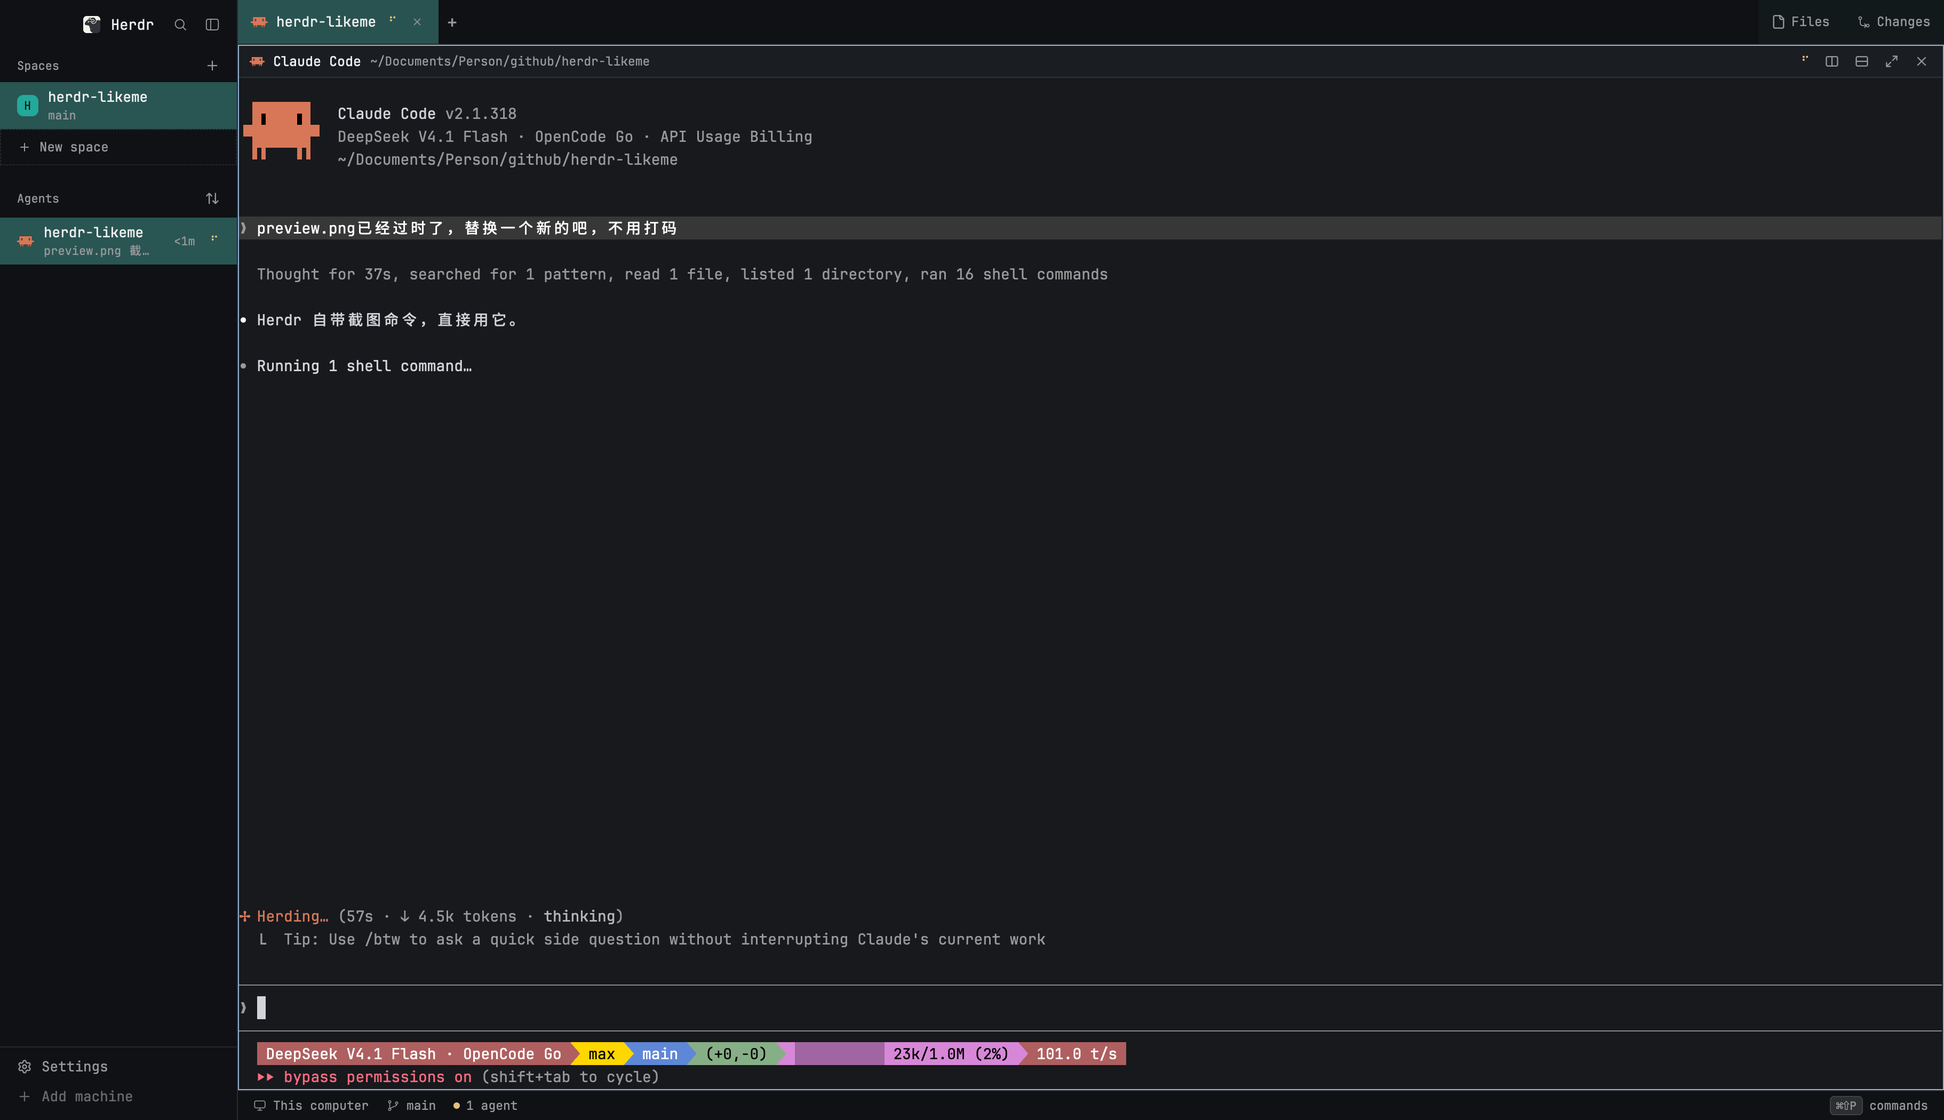
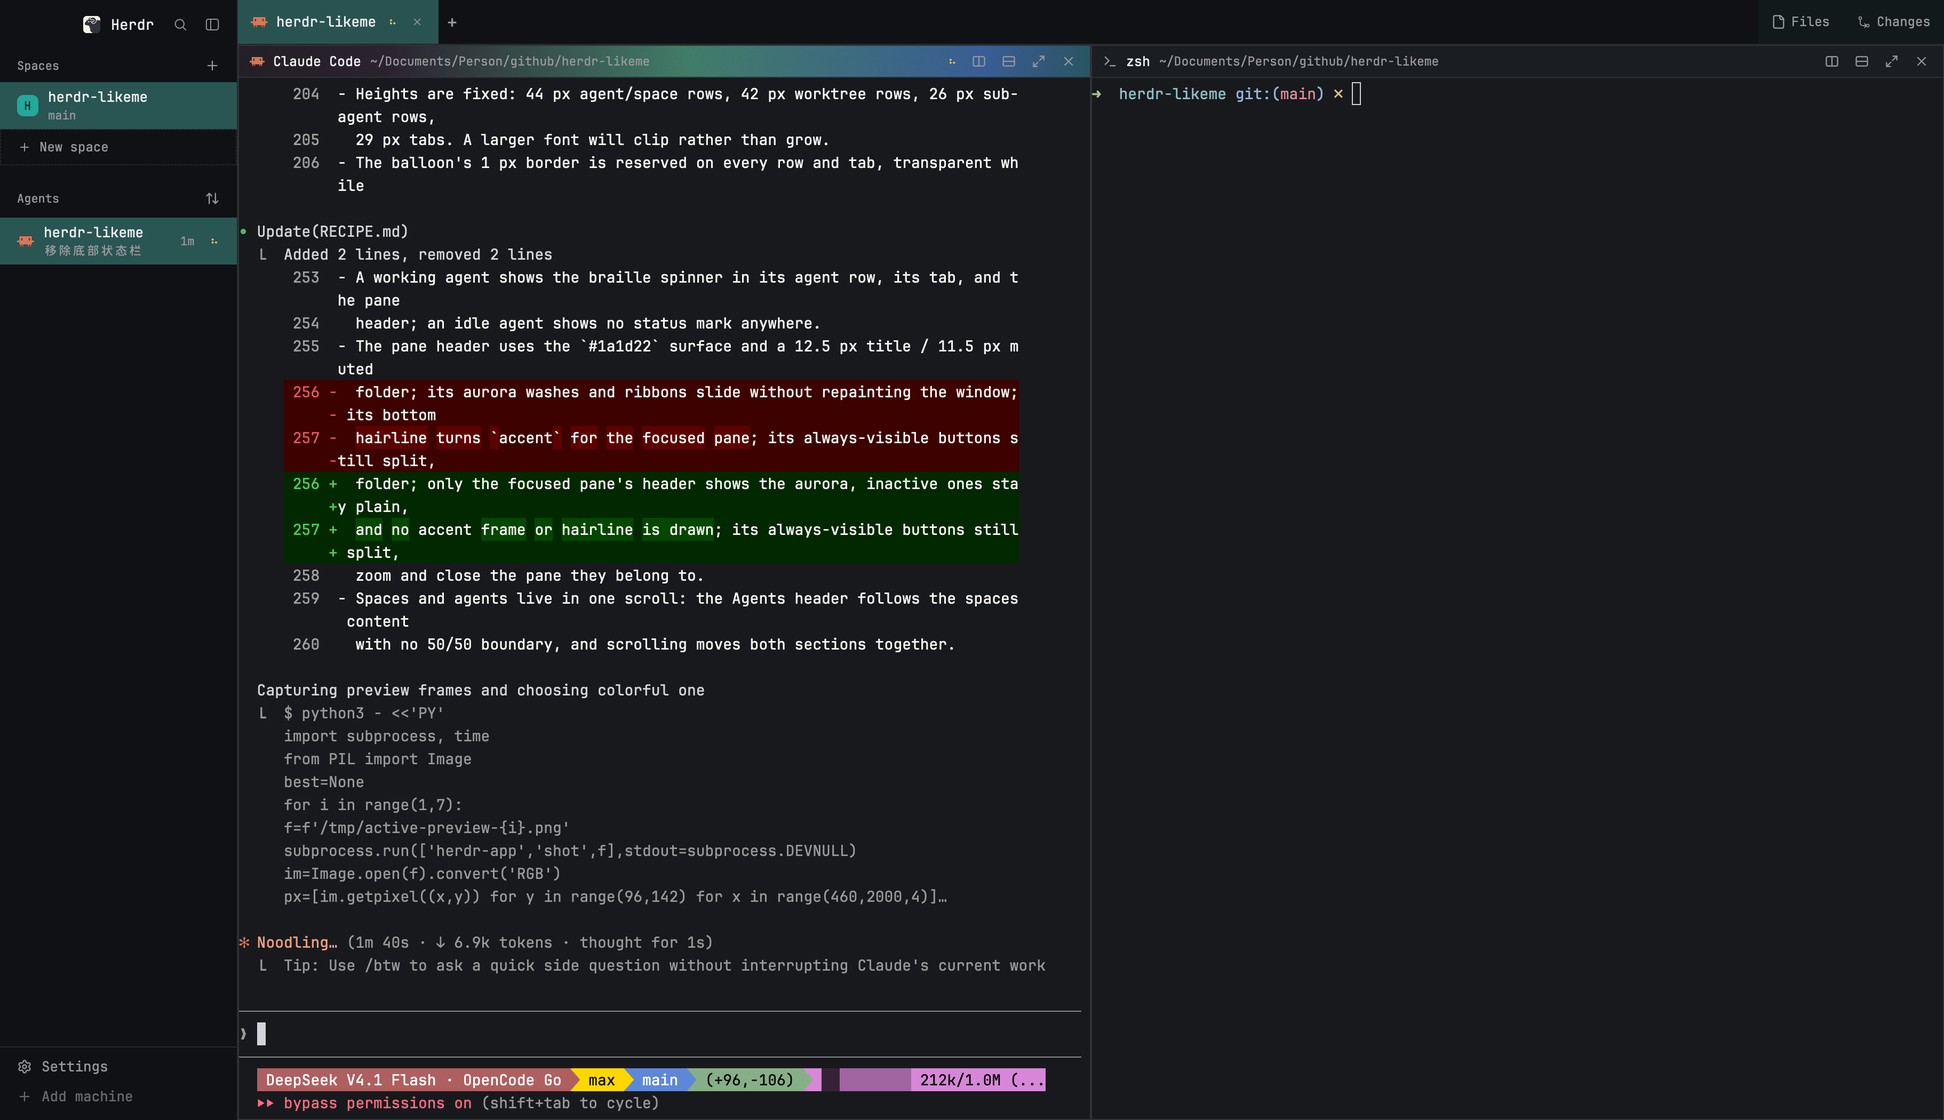
Remove the status bar and add a focused-pane aurora
Drop the my-status mod and its 28 px block. The focused pane is now
marked by an iridescent aurora in its header instead of an accent frame,
so the square pane no longer draws a bright corner into the macOS
rounded window; inactive headers stay plain.

diff --git a/mods/my-pane/main.js b/mods/my-pane/main.js
@@ -3,10 +3,55 @@
 // Shows the program's icon (the app's program table), the agent's name or
 // the terminal's title, the folder, and the agent's status; buttons split, zoom and close
 // this pane. Props from the app: { pane, terminal }. Click: focus the pane.
+// The header background carries an iridescent, left-to-right aurora.
 
-import { View, div, svg, image } from "gpui-kit";
+import { View, div, svg, image, PathBuilder, Background } from "gpui-kit";
 import { h_flex } from "gpui-base";
 import { panes, props, run, theme, home } from "herdr";
+
+const RECT = () => PathBuilder.fill()
+  .move_to("0%", "0%").line_to("100%", "0%")
+  .line_to("100%", "100%").line_to("0%", "100%")
+  .close().build();
+
+// A left-to-right wash across the element it fills.
+const wash = (from, to) =>
+  window.paint_path(RECT(), Background.linear_gradient(90, from, to)).size_full();
+
+// One soft colour ribbon: transparent → colour A → colour B → transparent.
+// The whole ribbon slides across the header, so each colour fades in at the
+// left and out at the right instead of appearing as a hard block.
+const ribbon = (pane, key, width, from, to, period, a, b, alpha = "66") => {
+  const A = `${a}${alpha}`, B = `${b}${alpha}`;
+  return h_flex()
+    .id(`pane-aurora-${pane}-${key}`)
+    .absolute()
+    .top(0)
+    .h_full()
+    .w(width * 3)
+    .left(from)
+    .loop("left", { from, to, period, easing: "linear" })
+    .child(wash(`${a}00`, A).w(width).h_full())
+    .child(wash(A, B).w(width).h_full())
+    .child(wash(B, `${b}00`).w(width).h_full());
+};
+
+// Only the focused pane gets the aurora; inactive headers stay plain, and the
+// aurora itself is the focus mark (no accent frame or hairline).
+const aurora = (pane) => div()
+  .id(`pane-aurora-${pane}`)
+  .absolute()
+  .top(0)
+  .left(0)
+  .size_full()
+  // The wash itself fades in from the left, so the header enters as a soft
+  // colour instead of switching on; the moving ribbons carry it onward.
+  .child(wash("#ff4d9d0a", "#4de1ff4a"))
+  .child(wash("#7c5cff00", "#ffb84d42"))
+  .child(ribbon(pane, "rose", 320, -960, 3000, 14000, "#ff4d9d", "#ffb84d", "6b"))
+  .child(ribbon(pane, "ice", 380, -1140, 3200, 16000, "#4de1ff", "#7c5cff", "63"))
+  .child(ribbon(pane, "mint", 280, -840, 2800, 11000, "#5cffb0", "#4d7dff", "5c"))
+  .child(ribbon(pane, "sheen", 90, -270, 3000, 7000, "#ffffff", "#ffffff", "26"));
 
 function icon(p, size, color) {
   if (!p?.icon) return null;
@@ -53,10 +98,12 @@ export default class Pane extends View {
       .gap(8)
       .items_center()
       .bg("#1a1d22")
+      .overflow_hidden()
       .border_b(1)
       .border_color(t.border)
       .text_size(12)
       .on_click(() => run("pane.focus", { pane }))
+      .when(p.focused, (el) => el.child(aurora(pane)))
       .when(Boolean(pic), (el) => el.child(pic))
       .child(div().flex_none().truncate().max_w(260).text_size(12.5).font_medium().text_color(t.foreground).child(name))
       .child(div().flex_1().truncate().text_size(11.5).text_color(t.muted).child(folder(p.cwd)))

diff --git a/RECIPE.md b/RECIPE.md
@@ -12,7 +12,7 @@ the balloon selection, the tab close buttons and the spinner are the real UI._
 
 ## What you see
 
-The window is Herdr's `main` layout with four mods replaced. No system title bar
+The window is Herdr's `main` layout with five mods replaced. No system title bar
 (`"titlebar": "none"`); on macOS the traffic lights sit at `[12, 16]`. Background is
 the theme's `canvas`, with 1 px `border` dividers.
 
@@ -76,18 +76,17 @@ tabs share a folder (then the number is appended if the programs also collide). 
 `+` sits right after the last tab, inside the scrolling strip.
 
 **Panes.** Square, edge-to-edge cards: no gap, padding or terminal padding, 1 px
-`border`, `accent` border while focused, and a slightly lifted `#1a1d22` surface (the
+`border`, no pane-level focus border, and a slightly lifted `#1a1d22` surface (the
 terminal itself keeps its own background). 30 px header from the cloned `my-pane` mod
-(`reveal: always`), painted on the same `#1a1d22` surface, with a 1 px bottom hairline. The title is 12.5 px
+(`reveal: always`), painted on the same `#1a1d22` surface. Only the focused pane's
+header carries the aurora: two static left-to-right washes and four translucent colour
+ribbons sliding across at different speeds. The washes start transparent at the left
+edge, so the colour appears gradually, and the ribbons start offscreen to the left and
+fade out at their trailing edge. Inactive headers stay plain; the aurora itself is the
+focus mark, and the header's bottom hairline stays `border`. The title is 12.5 px
 `medium`, the folder 11.5 px `muted`, and the working state is the same gold braille
 character as the tabs and agents. The Files/Changes panel (368 px, hidden by default)
-is Herdr's `files`/`changes` stack. A 28 px `my-status` bar sits at the bottom.
-
-**Status bar.** 11.5 px `muted`: the machine (server/monitor icon), the space's branch,
-and the agent count with a 6 px dot colored by the most urgent agent. The count is
-singular when it is one ("1 agent"); a blocked count adds "· N needs you" in `blocked`.
-The palette chord on the right is a small keycap (`raised`, 1 px `border`, 18 px high)
-followed by "commands".
+is Herdr's `files`/`changes` stack.
 
 ## How it behaves
 
@@ -109,14 +108,13 @@ followed by "commands".
   opens the tab menu, the wheel switches tabs, every close button closes its own tab.
   A tab still named by its number is shown by what it runs, so "1" becomes the folder
   or program name; renaming a tab always wins. The `+` opens Herdr's `new-menu` popup.
-- **Pane header.** Click focuses the pane. The split-right, split-down, zoom/unzoom and
+- **Pane header.** Click focuses the pane. Only the focused pane's header shows the
+  aurora; inactive headers stay plain, and there is no accent frame or hairline to run
+  square into the window's rounded bottom-right. The split-right, split-down, zoom/unzoom and
   close buttons are always visible, and the status indicator keeps its place when there
   is one (working spinner, "Needs you", done dot); an idle agent shows nothing. Each
   button acts on its own pane (`props().pane`), not the focused one. Working shows the
   same braille character as the tabs and agents.
-- **Status bar.** The dot is the most urgent agent state (blocked > done > working >
-  idle > dim), the count is singular or plural, and the keycap chord opens the
-  palette (`app.palette`).
 - Everything else (Files/Changes, palette, dialogs and notifications) is unchanged
   from `main`.
 
@@ -136,10 +134,9 @@ root row (canvas, titlebar none, traffic_lights [12,16], terminal_padding [0,0],
    ├─ tabs block (42px, mod my-tabs, window_drag)
    ├─ work-body row (padding 0, gap 0)
    │  ├─ main block {tab: active, pane: {gap 0, radius 0, background #1a1d22, border 1/border,
-   │  │              focus 1/accent, lone true, header {mod my-pane, height 30, reveal always}}}
+   │  │              lone true, header {mod my-pane, height 30, reveal always}}}
    │  └─ panel column (368px, min 280, max 900, hidden) → panel-body stack
    │     {active files} → files block, changes block
-   └─ status block (28px, my-status)
 ```
 
 **Mods.**
@@ -148,8 +145,7 @@ root row (canvas, titlebar none, traffic_lights [12,16], terminal_padding [0,0],
 |---|---|
 | `my-sidebar` | One mod, two retained child views (`spaces.js` and `agents.js`) composed in a single scrolling column (`main.js`); `colors.js` holds the shared `MARK` table, `markColor()` and the `mix()` used for the balloon pills. It keeps the spaces logic (git lookup via `exec`, `hc machine ls`, `watchFolder`, drag-reorder) and the agents logic (live agent data, pins, groups, sub-agent trees) unchanged. Changed: the two sections share one scroll (no 50/50 split), the Agents header follows the spaces content without a top border, the worktree rows draw a real 1 px tree line, rows have spacing and balloon selection, and both retain the row/type/active-state changes from the earlier passes. The sort popup mounts a second copy of this mod (`props.sortMenu`) and returns only the agents view. |
 | `my-tabs` | The tab bar. Clone of the shipped `tabs`. Changed: 10 px radius, `px 12`/`gap 8`, 16 px icons, distinct labels for default-numbered tabs, `+` after the last tab, close button fades to 0.4 when inactive, balloon active tab in the space's colour, zoom glyph, spinner `frames([...], 80)`. |
-| `my-pane` | The pane header. Clone of the shipped `pane`. Changed: header surface `#1a1d22`, 12.5 px title / 11.5 px `muted` folder, braille working spinner instead of the rotating SVG, always-visible `muted` buttons; keeps the 1 px bottom hairline and the split/zoom/close buttons. |
-| `my-status` | The status bar. Clone of the shipped `workspace-status`. Changed: 11.5 px text, singular/plural agent count, 6 px dot colored by the most urgent agent, palette chord in an 18 px keycap. |
+| `my-pane` | The pane header. Clone of the shipped `pane`. Changed: header surface `#1a1d22`, 12.5 px title / 11.5 px `muted` folder, an iridescent aurora on the focused pane's header only (static washes plus four native `loop` ribbons), braille working spinner instead of the rotating SVG, always-visible `muted` buttons; no pane-level focus border and no accent hairline — the aurora is the focus mark — and it keeps the split/zoom/close buttons. |
 
 Herdr functions used: `spaces`, `agents`, `terminals`, `panes`, `focused`, `layout`,
 `theme`, `window`, `settings`, `keys`, `home`, `shared` / `setShared`, `setAgentOrder`,
@@ -173,11 +169,10 @@ carries its own `sort.svg`; `my-pane` carries its own `close/split/zoom` SVGs;
 ## Watch out
 
 - **Clones never update.** Herdr replaces its shipped
-  `spaces`/`agents`/`tabs`/`pane`/`workspace-status` on every start; these five sources
+  `spaces`/`agents`/`tabs`/`pane` on every start; these four sources
   are frozen at 0.1.12. After a Herdr upgrade, diff each shipped `main.js` against its
   copy and port whatever changed (`spaces`→`my-sidebar/spaces.js`,
-  `agents`→`my-sidebar/agents.js`, `tabs`→`my-tabs`, `pane`→`my-pane`,
-  `workspace-status`→`my-status`).
+  `agents`→`my-sidebar/agents.js`, `tabs`→`my-tabs`, `pane`→`my-pane`).
 - `my-sidebar` is a composition, not a clone: `main.js` mounts two retained child
   views with `cx.new(..., { embedded: true })`. The child reads `embedded` from its
   `init(props)` argument, **not** from the global `props()` (which is the host mod's
@@ -196,6 +191,16 @@ carries its own `sort.svg`; `my-pane` carries its own `close/split/zoom` SVGs;
 - The mods read shipped assets by path (`mods/workspace-chrome/...`,
   `mods/pane/close.svg` in `my-tabs`). If Herdr renames them, update the paths.
   `my-pane` uses its own `mods/my-pane/*.svg` copies instead.
+- The header aurora is painted with `window.paint_path(RECT, Background.linear_gradient(...))`;
+  `.bg()` takes only a Color, not a Background. The ribbons animate `left` with
+  `.loop`, at about 30 fps and without a script timer. Their `from` is minus the
+  ribbon's width and their `to` is past the header, so the loop's ping-pong reversal
+  happens offscreen and the visible motion stays left-to-right. All four ribbons and
+  both washes are separate elements; adding a timer here would redraw the whole window.
+- The pane frame has no `focus` border and the header has no accent hairline on purpose.
+  Any 1 px accent line around the pane runs square into the window's rounded
+  bottom-right corner, which reads as a bright, abrupt corner. The focused pane's
+  aurora is the focus mark; keep it in the header if you port this layout.
 - Heights are fixed: 44 px agent/space rows, 42 px worktree rows, 26 px sub-agent rows,
   29 px tabs. A larger font will clip rather than grow.
 - The balloon's 1 px border is reserved on every row and tab, transparent while
@@ -209,7 +214,7 @@ carries its own `sort.svg`; `my-pane` carries its own `close/split/zoom` SVGs;
   keeps a dragged edge from crossing that line, so the rail is reached only with the
   brand bar's collapse button. Running the state's `layout.resize` command is not
   clamped by `min`, so that button still works.
-- Mod names (`my-sidebar`, `my-tabs`, `my-pane`, `my-status`) are deliberately
+- Mod names (`my-sidebar`, `my-tabs`, `my-pane`, `my-files`, `my-changes`) are deliberately
   generic. Rename them on install if they clash, and update the `"mod"` fields in
   `likeme.json`.
 - The Files/Changes choice is remembered per space by `my-tabs` in `localStorage`
@@ -229,7 +234,8 @@ carries its own `sort.svg`; `my-pane` carries its own `close/split/zoom` SVGs;
 
 ## Done when
 
-- `herdr-app check mods/my-sidebar`, `.../my-tabs`, `.../my-pane`, `.../my-status` all
+- `herdr-app check mods/my-sidebar`, `.../my-tabs`, `.../my-pane`, `.../my-files`,
+  `.../my-changes` all
   pass.
 - `herdr-app do layout.switch '{"name":"likeme"}'` shows the layout and `herdr-app
   status` reports no errors.
@@ -247,13 +253,12 @@ carries its own `sort.svg`; `my-pane` carries its own `close/split/zoom` SVGs;
 - A working agent shows the braille spinner in its agent row, its tab, and the pane
   header; an idle agent shows no status mark anywhere.
 - The pane header uses the `#1a1d22` surface and a 12.5 px title / 11.5 px muted
-  folder; its always-visible buttons still split, zoom and close the pane they belong
-  to.
-- The status bar says "1 agent", colors its dot by the most urgent agent, and shows
-  the palette chord in a keycap.
+  folder; only the focused pane's header shows the aurora, inactive ones stay plain,
+  and no accent frame or hairline is drawn; its always-visible buttons still split,
+  zoom and close the pane they belong to.
 - Spaces and agents live in one scroll: the Agents header follows the spaces content
   with no 50/50 boundary, and scrolling moves both sections together.
 - A worktree space appears under its checkout with a 1 px tree line; the last child
   turns into its row instead of continuing down.
-- Deleting `layouts/likeme.json` and the four `mods/my-*` folders returns the app to
+- Deleting `layouts/likeme.json` and the five `mods/my-*` folders returns the app to
   the shipped layouts.

diff --git a/README.md b/README.md
@@ -20,9 +20,8 @@ and the braille spinner are the real UI._
 | **Spaces** | A 20 px tinted monogram with a dark letter; the project name (13 px) over the current git branch (11 px, muted, plus ahead/behind). Rows are square, full-bleed and flush against each other with no gap; resting rows lie flat under a whisper of the space's colour, while the active space is a flat opaque tint with no border or shadow; worktrees hang from a 1 px tree line under their checkout; with fewer than three spaces a dashed "New space" row fills the gap. |
 | **Agents** | The same square, full-bleed two-line row (space name over the agent's own title) with a whisper of its space's colour and no gap between rows; the focused agent is the same flat opaque tint, again without a border, instead of an accent bar. The column watches its data on a 250 ms timer and redraws when it changes, so focus and status turns show without hovering; an idle agent shows no status mark. The elapsed time and pin share a fixed slot, so hovering never shifts the text. A single group hides its redundant header, and the sort button uses an up/down icon. |
 | **Tabs** | Tabs are square, fill the bar's full height and sit flush against each other with no gap; the active tab is the same flat opaque tint as a selected sidebar row, tinted with the space's colour and drawn without a border or shadow, while the others lie flat and keep a close button (dimmer when inactive). The `Files`/`Changes` toggles at the right are the same square, full-height blocks, tinted like the active tab when their panel is open. A default-numbered tab shows what it runs — the folder name, or the program when two tabs share it — and `+` sits right after the last tab. A zoomed tab gets a small zoom glyph instead of a trailing `Z`. The working spinner is a gold braille character (`⠋⠙⠹⠸⠼⠴⠦⠧⠇⠏`, 80 ms per frame). |
-| **Panes** | Square corners and no gap, padding or terminal padding — the pane fills the work area edge to edge — a slightly lifted card surface (`#1a1d22`), and a cloned header on that same surface. The split/zoom/close buttons are always visible; the status mark appears for working, blocked and done (nothing while idle). The header's working spinner is the same gold braille character as the tabs and agents. |
+| **Panes** | Square corners and no gap, padding or terminal padding — the pane fills the work area edge to edge — a slightly lifted card surface (`#1a1d22`), and a cloned header on that same surface. Only the active pane's header paints a left-to-right aurora behind its text: a static wash that fades in from the dark left edge, plus four translucent colour ribbons sliding across at different speeds (native animations, no timer); inactive headers stay plain. The aurora is the focus mark — there is no accent frame or hairline, so no bright square corner is drawn into the window's rounded bottom-right. The split/zoom/close buttons are always visible; the status mark appears for working, blocked and done (nothing while idle). The header's working spinner is the same gold braille character as the tabs and agents. |
 | **Files / Changes** | Cloned from Herdr's `files` and `changes` mods with square corners: the panel body, the file and changed-file rows, the changed-file count badge and the commit field and button lose their rounding. |
-| **Status bar** | "1 agent" instead of "1 agents", a dot colored by the most urgent agent, and the palette shortcut drawn as a keycap. |
 
 Everything else — brand bar, menus — is Herdr's `main` layout unchanged.
 
@@ -50,7 +49,7 @@ cd herdr-likeme
 ./install.sh
 ```
 
-`install.sh` copies `layouts/likeme.json` and the six mods into
+`install.sh` copies `layouts/likeme.json` and the five mods into
 `${HERDR_APP_HOME:-~/.config/herdr-app}`, runs `herdr-app check` on every mod, and
 switches to the layout. Herdr reloads the files within a second.
 
@@ -66,12 +65,13 @@ Manual install:
 DST=~/.config/herdr-app
 
 cp layouts/likeme.json "$DST/layouts/"
-cp -R mods/my-sidebar mods/my-tabs mods/my-pane mods/my-status "$DST/mods/"
+cp -R mods/my-sidebar mods/my-tabs mods/my-pane mods/my-files mods/my-changes "$DST/mods/"
 
 herdr-app check "$DST/mods/my-sidebar"
 herdr-app check "$DST/mods/my-tabs"
 herdr-app check "$DST/mods/my-pane"
-herdr-app check "$DST/mods/my-status"
+herdr-app check "$DST/mods/my-files"
+herdr-app check "$DST/mods/my-changes"
 herdr-app do layout.switch '{"name":"likeme"}'
 ```
 
@@ -80,7 +80,8 @@ matching `"mod"` references in `likeme.json`.
 
 - Update: run the one-liner again, or `git pull && ./install.sh`
 - Uninstall: delete `layouts/likeme.json`, `layouts/likeme.png` (if present) and the
-  `mods/my-sidebar`, `mods/my-tabs`, `mods/my-pane`, `mods/my-status` folders. If you
+  `mods/my-sidebar`, `mods/my-tabs`, `mods/my-pane`, `mods/my-files`, `mods/my-changes`
+  folders. If you
   upgraded from a version before the merged sidebar, also delete the old
   `mods/my-spaces` and `mods/my-agents` folders; their code now lives inside
   `mods/my-sidebar`.
@@ -88,7 +89,7 @@ matching `"mod"` references in `likeme.json`.
 ## What the mods do
 
 Herdr mods are trusted code: they can run programs, use the network and read files.
-These four are meant to be read:
+These five are meant to be read:
 
 - **`my-sidebar`** is one mod with two retained child views (`spaces.js` and
   `agents.js`) in one scroll column. The spaces half runs
@@ -100,9 +101,14 @@ These four are meant to be read:
 - **`my-tabs`** uses Herdr's live tab/pane data and shipped SVGs. No `exec`, no
   network.
 - **`my-pane`** is a clone of the shipped pane header; it reads the same live pane
-  data and carries its own split/zoom/close SVGs. No `exec`, no network.
-- **`my-status`** is a clone of the shipped workspace status bar; it reads live
-  space/agent data and the palette binding. No `exec`, no network.
+  data, paints the focused pane's aurora, and carries its own split/zoom/close SVGs.
+  No `exec`, no network.
+- **`my-files`** is a lazy file browser for the focused pane's folder. It lists
+  directories with `sh` (or PowerShell on Windows), previews files with
+  `readTextFile`, and watches folders with `watchFolder`. No network.
+- **`my-changes`** is a clone of the shipped changes panel. It runs read-only git
+  commands (`status`, `diff`, `rev-parse`) via `exec` and watches the worktree. No
+  network.
 
 `RECIPE.md` has the full build notes, including the exact layout tree, the two-line
 row structure, and what a fresh build would get wrong.
